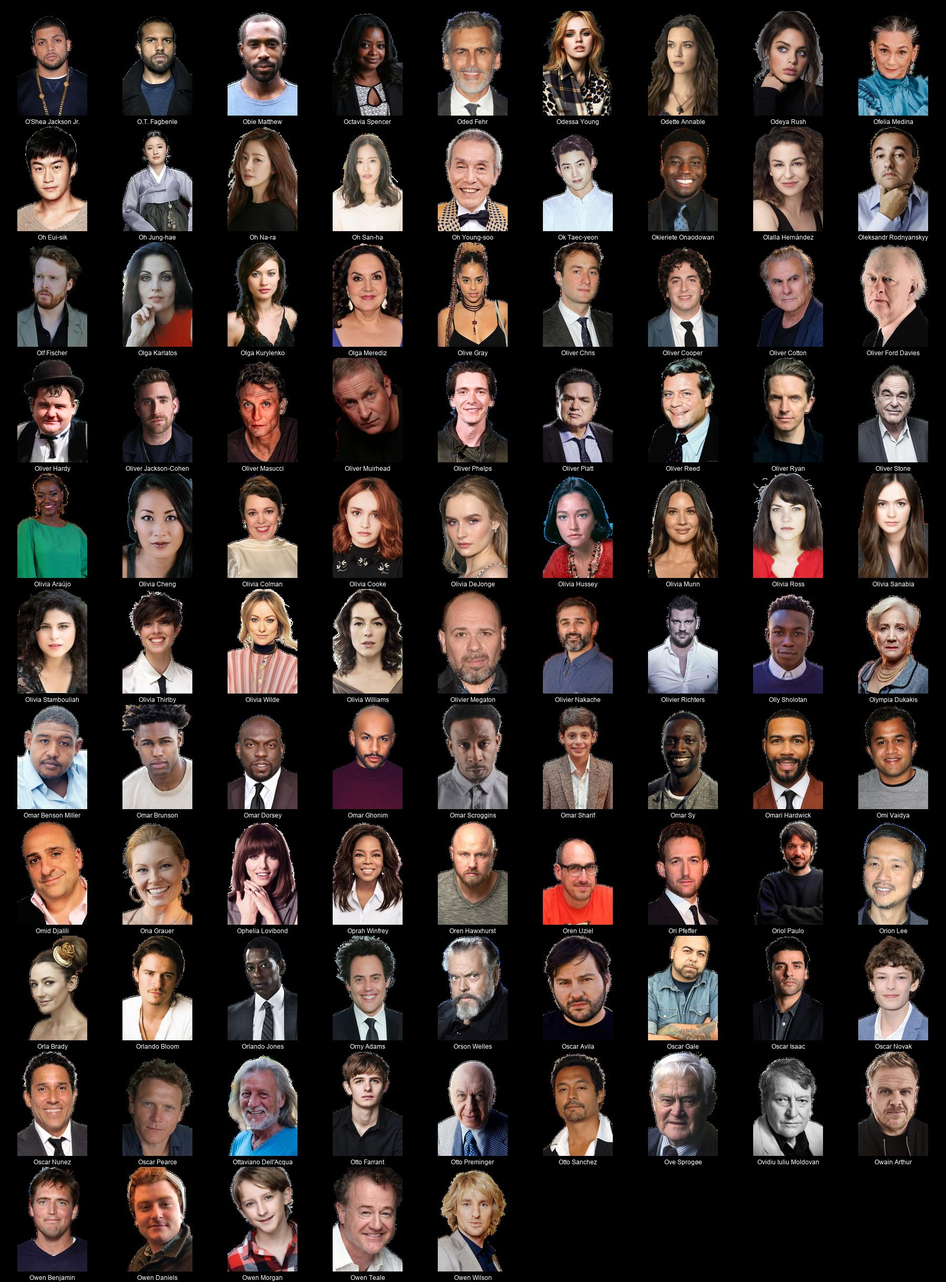
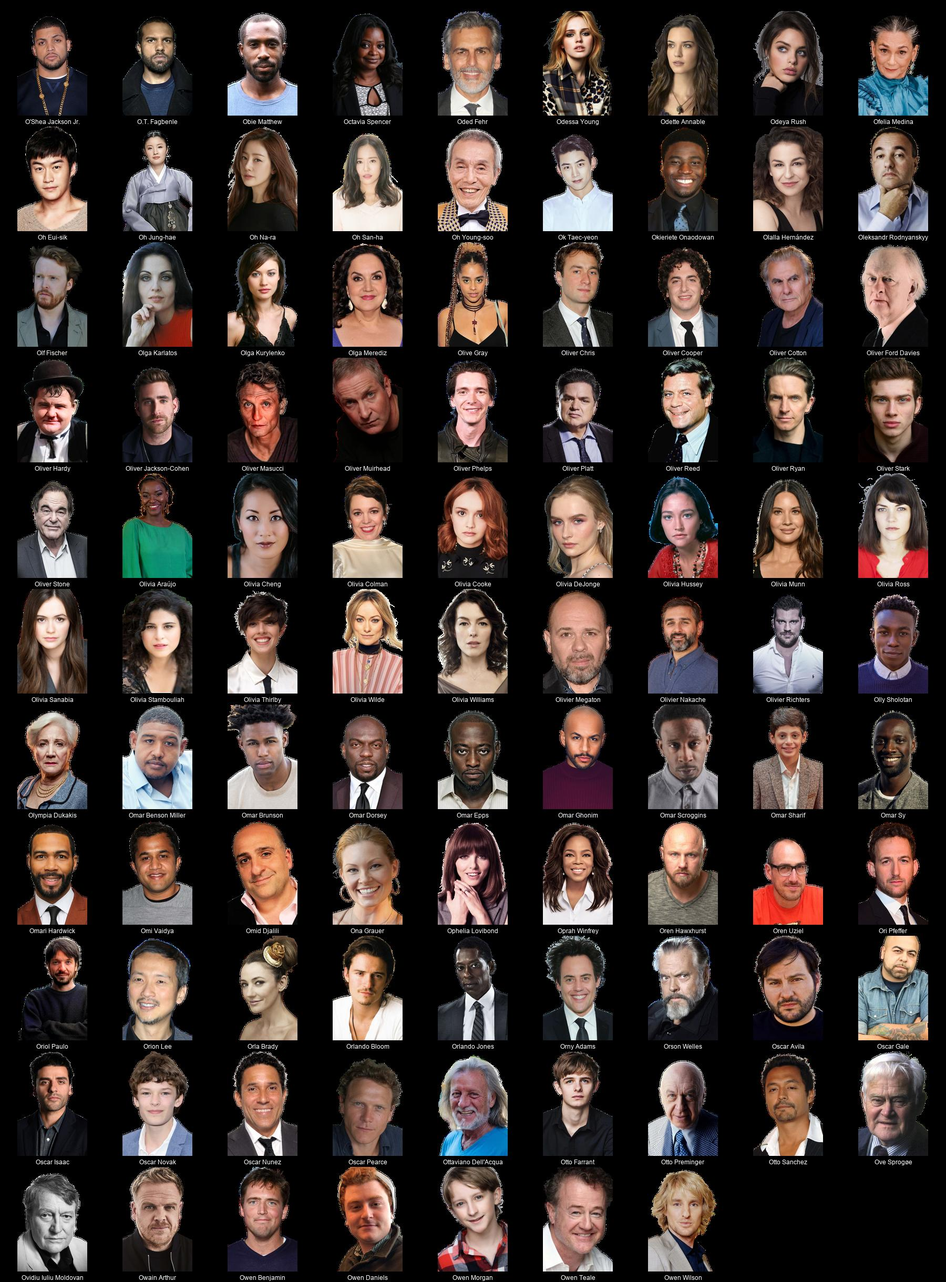
more peeps

diff --git a/README.md b/README.md
@@ -1,4 +1,4 @@
-# Kometa People Images - Transparent (transparent) (11044 Images)
+# Kometa People Images - Transparent (transparent) (11060 Images)
 
 <details><summary><a href="'">' (1 Images)</a></summary>
 
@@ -1464,7 +1464,7 @@
 * [Béla Tarr](https://raw.githubusercontent.com/Kometa-Team/People-Images-transparent/master/B/Images/B%C3%A9la%20Tarr.png)
 * [Bérénice Bejo](https://raw.githubusercontent.com/Kometa-Team/People-Images-transparent/master/B/Images/B%C3%A9r%C3%A9nice%20Bejo.png)
 </details>
-<details><summary><a href="C">C (707 Images)</a></summary>
+<details><summary><a href="C">C (708 Images)</a></summary>
 
 * [C. Robert Cargill](https://raw.githubusercontent.com/Kometa-Team/People-Images-transparent/master/C/Images/C.%20Robert%20Cargill.png)
 * [C. S. Forester](https://raw.githubusercontent.com/Kometa-Team/People-Images-transparent/master/C/Images/C.%20S.%20Forester.png)
@@ -1828,6 +1828,7 @@
 * [Chris Messina](https://raw.githubusercontent.com/Kometa-Team/People-Images-transparent/master/C/Images/Chris%20Messina.png)
 * [Chris Miller](https://raw.githubusercontent.com/Kometa-Team/People-Images-transparent/master/C/Images/Chris%20Miller.png)
 * [Chris Morgan](https://raw.githubusercontent.com/Kometa-Team/People-Images-transparent/master/C/Images/Chris%20Morgan.png)
+* [Chris Morris](https://raw.githubusercontent.com/Kometa-Team/People-Images-transparent/master/C/Images/Chris%20Morris.png)
 * [Chris Mulkey](https://raw.githubusercontent.com/Kometa-Team/People-Images-transparent/master/C/Images/Chris%20Mulkey.png)
 * [Chris Noth](https://raw.githubusercontent.com/Kometa-Team/People-Images-transparent/master/C/Images/Chris%20Noth.png)
 * [Chris O'Donnell](https://raw.githubusercontent.com/Kometa-Team/People-Images-transparent/master/C/Images/Chris%20O%27Donnell.png)
@@ -3486,7 +3487,7 @@
 * [Frédéric North](https://raw.githubusercontent.com/Kometa-Team/People-Images-transparent/master/F/Images/Fr%C3%A9d%C3%A9ric%20North.png)
 * [Fumihiko Tachiki](https://raw.githubusercontent.com/Kometa-Team/People-Images-transparent/master/F/Images/Fumihiko%20Tachiki.png)
 </details>
-<details><summary><a href="G">G (378 Images)</a></summary>
+<details><summary><a href="G">G (379 Images)</a></summary>
 
 * [G-Eazy](https://raw.githubusercontent.com/Kometa-Team/People-Images-transparent/master/G/Images/G-Eazy.png)
 * [G. D. Spradlin](https://raw.githubusercontent.com/Kometa-Team/People-Images-transparent/master/G/Images/G.%20D.%20Spradlin.png)
@@ -3786,6 +3787,7 @@
 * [Graham Greene](https://raw.githubusercontent.com/Kometa-Team/People-Images-transparent/master/G/Images/Graham%20Greene.png)
 * [Graham King](https://raw.githubusercontent.com/Kometa-Team/People-Images-transparent/master/G/Images/Graham%20King.png)
 * [Graham McTavish](https://raw.githubusercontent.com/Kometa-Team/People-Images-transparent/master/G/Images/Graham%20McTavish.png)
+* [Graham Norton](https://raw.githubusercontent.com/Kometa-Team/People-Images-transparent/master/G/Images/Graham%20Norton.png)
 * [Graham Phillips](https://raw.githubusercontent.com/Kometa-Team/People-Images-transparent/master/G/Images/Graham%20Phillips.png)
 * [Graham Turner](https://raw.githubusercontent.com/Kometa-Team/People-Images-transparent/master/G/Images/Graham%20Turner.png)
 * [Graham Walters](https://raw.githubusercontent.com/Kometa-Team/People-Images-transparent/master/G/Images/Graham%20Walters.png)
@@ -4294,7 +4296,7 @@
 * [Izaac Wang](https://raw.githubusercontent.com/Kometa-Team/People-Images-transparent/master/I/Images/Izaac%20Wang.png)
 * [Izabella Scorupco](https://raw.githubusercontent.com/Kometa-Team/People-Images-transparent/master/I/Images/Izabella%20Scorupco.png)
 </details>
-<details><summary><a href="J">J (1356 Images)</a></summary>
+<details><summary><a href="J">J (1361 Images)</a></summary>
 
 * [J'Dvonte](https://raw.githubusercontent.com/Kometa-Team/People-Images-transparent/master/J/Images/J%27Dvonte.png)
 * [J. A. Bayona](https://raw.githubusercontent.com/Kometa-Team/People-Images-transparent/master/J/Images/J.%20A.%20Bayona.png)
@@ -5114,6 +5116,7 @@
 * [John Ashton Thomas](https://raw.githubusercontent.com/Kometa-Team/People-Images-transparent/master/J/Images/John%20Ashton%20Thomas.png)
 * [John Ashton](https://raw.githubusercontent.com/Kometa-Team/People-Images-transparent/master/J/Images/John%20Ashton.png)
 * [John August](https://raw.githubusercontent.com/Kometa-Team/People-Images-transparent/master/J/Images/John%20August.png)
+* [John B. 'Sparko' Sparkes](https://raw.githubusercontent.com/Kometa-Team/People-Images-transparent/master/J/Images/John%20B.%20%27Sparko%27%20Sparkes.png)
 * [John Badham](https://raw.githubusercontent.com/Kometa-Team/People-Images-transparent/master/J/Images/John%20Badham.png)
 * [John Barron](https://raw.githubusercontent.com/Kometa-Team/People-Images-transparent/master/J/Images/John%20Barron.png)
 * [John Barrowman](https://raw.githubusercontent.com/Kometa-Team/People-Images-transparent/master/J/Images/John%20Barrowman.png)
@@ -5267,6 +5270,9 @@
 * [John Simm](https://raw.githubusercontent.com/Kometa-Team/People-Images-transparent/master/J/Images/John%20Simm.png)
 * [John Singleton](https://raw.githubusercontent.com/Kometa-Team/People-Images-transparent/master/J/Images/John%20Singleton.png)
 * [John Slattery](https://raw.githubusercontent.com/Kometa-Team/People-Images-transparent/master/J/Images/John%20Slattery.png)
+* [John Sparke](https://raw.githubusercontent.com/Kometa-Team/People-Images-transparent/master/J/Images/John%20Sparke.png)
+* [John Sparkes](https://raw.githubusercontent.com/Kometa-Team/People-Images-transparent/master/J/Images/John%20Sparkes.png)
+* [John Sparks](https://raw.githubusercontent.com/Kometa-Team/People-Images-transparent/master/J/Images/John%20Sparks.png)
 * [John Stamos](https://raw.githubusercontent.com/Kometa-Team/People-Images-transparent/master/J/Images/John%20Stamos.png)
 * [John Stephenson](https://raw.githubusercontent.com/Kometa-Team/People-Images-transparent/master/J/Images/John%20Stephenson.png)
 * [John Stocker](https://raw.githubusercontent.com/Kometa-Team/People-Images-transparent/master/J/Images/John%20Stocker.png)
@@ -5288,6 +5294,7 @@
 * [John Witherspoon](https://raw.githubusercontent.com/Kometa-Team/People-Images-transparent/master/J/Images/John%20Witherspoon.png)
 * [John Wolfe](https://raw.githubusercontent.com/Kometa-Team/People-Images-transparent/master/J/Images/John%20Wolfe.png)
 * [John Woo](https://raw.githubusercontent.com/Kometa-Team/People-Images-transparent/master/J/Images/John%20Woo.png)
+* [John Woodvine](https://raw.githubusercontent.com/Kometa-Team/People-Images-transparent/master/J/Images/John%20Woodvine.png)
 * [John Wyman](https://raw.githubusercontent.com/Kometa-Team/People-Images-transparent/master/J/Images/John%20Wyman.png)
 * [John le Carré](https://raw.githubusercontent.com/Kometa-Team/People-Images-transparent/master/J/Images/John%20le%20Carr%C3%A9.png)
 * [Johnathan Rice](https://raw.githubusercontent.com/Kometa-Team/People-Images-transparent/master/J/Images/Johnathan%20Rice.png)
@@ -6685,7 +6692,7 @@
 * [Léa Seydoux](https://raw.githubusercontent.com/Kometa-Team/People-Images-transparent/master/L/Images/L%C3%A9a%20Seydoux.png)
 * [Lúcio Andrey](https://raw.githubusercontent.com/Kometa-Team/People-Images-transparent/master/L/Images/L%C3%BAcio%20Andrey.png)
 </details>
-<details><summary><a href="M">M (1038 Images)</a></summary>
+<details><summary><a href="M">M (1040 Images)</a></summary>
 
 * [M'laah Kaur Singh](https://raw.githubusercontent.com/Kometa-Team/People-Images-transparent/master/M/Images/M%27laah%20Kaur%20Singh.png)
 * [M. Emmet Walsh](https://raw.githubusercontent.com/Kometa-Team/People-Images-transparent/master/M/Images/M.%20Emmet%20Walsh.png)
@@ -6847,6 +6854,7 @@
 * [Margaret Lacey](https://raw.githubusercontent.com/Kometa-Team/People-Images-transparent/master/M/Images/Margaret%20Lacey.png)
 * [Margaret Lee](https://raw.githubusercontent.com/Kometa-Team/People-Images-transparent/master/M/Images/Margaret%20Lee.png)
 * [Margaret Ménégoz](https://raw.githubusercontent.com/Kometa-Team/People-Images-transparent/master/M/Images/Margaret%20M%C3%A9n%C3%A9goz.png)
+* [Margaret Qualley](https://raw.githubusercontent.com/Kometa-Team/People-Images-transparent/master/M/Images/Margaret%20Qualley.png)
 * [Margit Evelyn Newton](https://raw.githubusercontent.com/Kometa-Team/People-Images-transparent/master/M/Images/Margit%20Evelyn%20Newton.png)
 * [Margo Martindale](https://raw.githubusercontent.com/Kometa-Team/People-Images-transparent/master/M/Images/Margo%20Martindale.png)
 * [Margo Moorer](https://raw.githubusercontent.com/Kometa-Team/People-Images-transparent/master/M/Images/Margo%20Moorer.png)
@@ -7592,6 +7600,7 @@
 * [Mike Troll](https://raw.githubusercontent.com/Kometa-Team/People-Images-transparent/master/M/Images/Mike%20Troll.png)
 * [Mike Vogel](https://raw.githubusercontent.com/Kometa-Team/People-Images-transparent/master/M/Images/Mike%20Vogel.png)
 * [Mike White](https://raw.githubusercontent.com/Kometa-Team/People-Images-transparent/master/M/Images/Mike%20White.png)
+* [Mikey Madison](https://raw.githubusercontent.com/Kometa-Team/People-Images-transparent/master/M/Images/Mikey%20Madison.png)
 * [Mikhail Gorevoy](https://raw.githubusercontent.com/Kometa-Team/People-Images-transparent/master/M/Images/Mikhail%20Gorevoy.png)
 * [Miki Esparbé](https://raw.githubusercontent.com/Kometa-Team/People-Images-transparent/master/M/Images/Miki%20Esparb%C3%A9.png)
 * [Miki Manojlović](https://raw.githubusercontent.com/Kometa-Team/People-Images-transparent/master/M/Images/Miki%20Manojlovi%C4%87.png)
@@ -8028,7 +8037,7 @@
 * [Nyasha Hatendi](https://raw.githubusercontent.com/Kometa-Team/People-Images-transparent/master/N/Images/Nyasha%20Hatendi.png)
 * [Nydia Rodriguez Terracina](https://raw.githubusercontent.com/Kometa-Team/People-Images-transparent/master/N/Images/Nydia%20Rodriguez%20Terracina.png)
 </details>
-<details><summary><a href="O">O (95 Images)</a></summary>
+<details><summary><a href="O">O (97 Images)</a></summary>
 
 * [O'Shea Jackson Jr.](https://raw.githubusercontent.com/Kometa-Team/People-Images-transparent/master/O/Images/O%27Shea%20Jackson%20Jr..png)
 * [O.T. Fagbenle](https://raw.githubusercontent.com/Kometa-Team/People-Images-transparent/master/O/Images/O.T.%20Fagbenle.png)
@@ -8065,6 +8074,7 @@
 * [Oliver Platt](https://raw.githubusercontent.com/Kometa-Team/People-Images-transparent/master/O/Images/Oliver%20Platt.png)
 * [Oliver Reed](https://raw.githubusercontent.com/Kometa-Team/People-Images-transparent/master/O/Images/Oliver%20Reed.png)
 * [Oliver Ryan](https://raw.githubusercontent.com/Kometa-Team/People-Images-transparent/master/O/Images/Oliver%20Ryan.png)
+* [Oliver Stark](https://raw.githubusercontent.com/Kometa-Team/People-Images-transparent/master/O/Images/Oliver%20Stark.png)
 * [Oliver Stone](https://raw.githubusercontent.com/Kometa-Team/People-Images-transparent/master/O/Images/Oliver%20Stone.png)
 * [Olivia Araújo](https://raw.githubusercontent.com/Kometa-Team/People-Images-transparent/master/O/Images/Olivia%20Ara%C3%BAjo.png)
 * [Olivia Cheng](https://raw.githubusercontent.com/Kometa-Team/People-Images-transparent/master/O/Images/Olivia%20Cheng.png)
@@ -8087,6 +8097,7 @@
 * [Omar Benson Miller](https://raw.githubusercontent.com/Kometa-Team/People-Images-transparent/master/O/Images/Omar%20Benson%20Miller.png)
 * [Omar Brunson](https://raw.githubusercontent.com/Kometa-Team/People-Images-transparent/master/O/Images/Omar%20Brunson.png)
 * [Omar Dorsey](https://raw.githubusercontent.com/Kometa-Team/People-Images-transparent/master/O/Images/Omar%20Dorsey.png)
+* [Omar Epps](https://raw.githubusercontent.com/Kometa-Team/People-Images-transparent/master/O/Images/Omar%20Epps.png)
 * [Omar Ghonim](https://raw.githubusercontent.com/Kometa-Team/People-Images-transparent/master/O/Images/Omar%20Ghonim.png)
 * [Omar Scroggins](https://raw.githubusercontent.com/Kometa-Team/People-Images-transparent/master/O/Images/Omar%20Scroggins.png)
 * [Omar Sharif](https://raw.githubusercontent.com/Kometa-Team/People-Images-transparent/master/O/Images/Omar%20Sharif.png)
@@ -8126,7 +8137,7 @@
 * [Owen Teale](https://raw.githubusercontent.com/Kometa-Team/People-Images-transparent/master/O/Images/Owen%20Teale.png)
 * [Owen Wilson](https://raw.githubusercontent.com/Kometa-Team/People-Images-transparent/master/O/Images/Owen%20Wilson.png)
 </details>
-<details><summary><a href="P">P (428 Images)</a></summary>
+<details><summary><a href="P">P (431 Images)</a></summary>
 
 * [P.H. Moriarty](https://raw.githubusercontent.com/Kometa-Team/People-Images-transparent/master/P/Images/P.H.%20Moriarty.png)
 * [P.J. Byrne](https://raw.githubusercontent.com/Kometa-Team/People-Images-transparent/master/P/Images/P.J.%20Byrne.png)
@@ -8199,6 +8210,8 @@
 * [Patricia Arquette](https://raw.githubusercontent.com/Kometa-Team/People-Images-transparent/master/P/Images/Patricia%20Arquette.png)
 * [Patricia Belcher](https://raw.githubusercontent.com/Kometa-Team/People-Images-transparent/master/P/Images/Patricia%20Belcher.png)
 * [Patricia Clarkson](https://raw.githubusercontent.com/Kometa-Team/People-Images-transparent/master/P/Images/Patricia%20Clarkson.png)
+* [Patricia Hodge](https://raw.githubusercontent.com/Kometa-Team/People-Images-transparent/master/P/Images/Patricia%20Hodge.png)
+* [Patricia Hodges](https://raw.githubusercontent.com/Kometa-Team/People-Images-transparent/master/P/Images/Patricia%20Hodges.png)
 * [Patricia López Arnaiz](https://raw.githubusercontent.com/Kometa-Team/People-Images-transparent/master/P/Images/Patricia%20L%C3%B3pez%20Arnaiz.png)
 * [Patricia Parker](https://raw.githubusercontent.com/Kometa-Team/People-Images-transparent/master/P/Images/Patricia%20Parker.png)
 * [Patricia Velásquez](https://raw.githubusercontent.com/Kometa-Team/People-Images-transparent/master/P/Images/Patricia%20Vel%C3%A1squez.png)
@@ -8256,6 +8269,7 @@
 * [Paul Dehn](https://raw.githubusercontent.com/Kometa-Team/People-Images-transparent/master/P/Images/Paul%20Dehn.png)
 * [Paul Dini](https://raw.githubusercontent.com/Kometa-Team/People-Images-transparent/master/P/Images/Paul%20Dini.png)
 * [Paul Dooley](https://raw.githubusercontent.com/Kometa-Team/People-Images-transparent/master/P/Images/Paul%20Dooley.png)
+* [Paul Eddington](https://raw.githubusercontent.com/Kometa-Team/People-Images-transparent/master/P/Images/Paul%20Eddington.png)
 * [Paul Eiding](https://raw.githubusercontent.com/Kometa-Team/People-Images-transparent/master/P/Images/Paul%20Eiding.png)
 * [Paul F. Tompkins](https://raw.githubusercontent.com/Kometa-Team/People-Images-transparent/master/P/Images/Paul%20F.%20Tompkins.png)
 * [Paul Feig](https://raw.githubusercontent.com/Kometa-Team/People-Images-transparent/master/P/Images/Paul%20Feig.png)
@@ -8568,7 +8582,7 @@
 * [Quinn Duffy](https://raw.githubusercontent.com/Kometa-Team/People-Images-transparent/master/Q/Images/Quinn%20Duffy.png)
 * [Quinton Jackson](https://raw.githubusercontent.com/Kometa-Team/People-Images-transparent/master/Q/Images/Quinton%20Jackson.png)
 </details>
-<details><summary><a href="R">R (699 Images)</a></summary>
+<details><summary><a href="R">R (700 Images)</a></summary>
 
 * [R. Lee Ermey](https://raw.githubusercontent.com/Kometa-Team/People-Images-transparent/master/R/Images/R.%20Lee%20Ermey.png)
 * [R. Madhavan](https://raw.githubusercontent.com/Kometa-Team/People-Images-transparent/master/R/Images/R.%20Madhavan.png)
@@ -8594,6 +8608,7 @@
 * [Rachel McAdams](https://raw.githubusercontent.com/Kometa-Team/People-Images-transparent/master/R/Images/Rachel%20McAdams.png)
 * [Rachel Nichols](https://raw.githubusercontent.com/Kometa-Team/People-Images-transparent/master/R/Images/Rachel%20Nichols.png)
 * [Rachel Rye](https://raw.githubusercontent.com/Kometa-Team/People-Images-transparent/master/R/Images/Rachel%20Rye.png)
+* [Rachel Sennott](https://raw.githubusercontent.com/Kometa-Team/People-Images-transparent/master/R/Images/Rachel%20Sennott.png)
 * [Rachel Skarsten](https://raw.githubusercontent.com/Kometa-Team/People-Images-transparent/master/R/Images/Rachel%20Skarsten.png)
 * [Rachel Weisz](https://raw.githubusercontent.com/Kometa-Team/People-Images-transparent/master/R/Images/Rachel%20Weisz.png)
 * [Rachelle Wood](https://raw.githubusercontent.com/Kometa-Team/People-Images-transparent/master/R/Images/Rachelle%20Wood.png)
@@ -9270,7 +9285,7 @@
 * [Ryusei Nakao](https://raw.githubusercontent.com/Kometa-Team/People-Images-transparent/master/R/Images/Ryusei%20Nakao.png)
 * [Ryusuke Hamaguchi](https://raw.githubusercontent.com/Kometa-Team/People-Images-transparent/master/R/Images/Ryusuke%20Hamaguchi.png)
 </details>
-<details><summary><a href="S">S (787 Images)</a></summary>
+<details><summary><a href="S">S (788 Images)</a></summary>
 
 * [S. S. Rajamouli](https://raw.githubusercontent.com/Kometa-Team/People-Images-transparent/master/S/Images/S.%20S.%20Rajamouli.png)
 * [Saagar Shaikh](https://raw.githubusercontent.com/Kometa-Team/People-Images-transparent/master/S/Images/Saagar%20Shaikh.png)
@@ -9773,6 +9788,7 @@
 * [Sofia Coppola](https://raw.githubusercontent.com/Kometa-Team/People-Images-transparent/master/S/Images/Sofia%20Coppola.png)
 * [Sofia Hublitz](https://raw.githubusercontent.com/Kometa-Team/People-Images-transparent/master/S/Images/Sofia%20Hublitz.png)
 * [Sofia Lesaffre](https://raw.githubusercontent.com/Kometa-Team/People-Images-transparent/master/S/Images/Sofia%20Lesaffre.png)
+* [Sofia Pernas](https://raw.githubusercontent.com/Kometa-Team/People-Images-transparent/master/S/Images/Sofia%20Pernas.png)
 * [Sofia Wylie](https://raw.githubusercontent.com/Kometa-Team/People-Images-transparent/master/S/Images/Sofia%20Wylie.png)
 * [Sofía Espinosa](https://raw.githubusercontent.com/Kometa-Team/People-Images-transparent/master/S/Images/Sof%C3%ADa%20Espinosa.png)
 * [Sofía Vergara](https://raw.githubusercontent.com/Kometa-Team/People-Images-transparent/master/S/Images/Sof%C3%ADa%20Vergara.png)

diff --git a/J/README.md b/J/README.md
@@ -1,4 +1,4 @@
-# Kometa People Images - Transparent (transparent) - J (1356 Images)
+# Kometa People Images - Transparent (transparent) - J (1361 Images)
 ![Grid](grid.jpg)
 
 * [J'Dvonte](https://raw.githubusercontent.com/Kometa-Team/People-Images-transparent/master/J/Images/J%27Dvonte.png)
@@ -819,6 +819,7 @@
 * [John Ashton Thomas](https://raw.githubusercontent.com/Kometa-Team/People-Images-transparent/master/J/Images/John%20Ashton%20Thomas.png)
 * [John Ashton](https://raw.githubusercontent.com/Kometa-Team/People-Images-transparent/master/J/Images/John%20Ashton.png)
 * [John August](https://raw.githubusercontent.com/Kometa-Team/People-Images-transparent/master/J/Images/John%20August.png)
+* [John B. 'Sparko' Sparkes](https://raw.githubusercontent.com/Kometa-Team/People-Images-transparent/master/J/Images/John%20B.%20%27Sparko%27%20Sparkes.png)
 * [John Badham](https://raw.githubusercontent.com/Kometa-Team/People-Images-transparent/master/J/Images/John%20Badham.png)
 * [John Barron](https://raw.githubusercontent.com/Kometa-Team/People-Images-transparent/master/J/Images/John%20Barron.png)
 * [John Barrowman](https://raw.githubusercontent.com/Kometa-Team/People-Images-transparent/master/J/Images/John%20Barrowman.png)
@@ -972,6 +973,9 @@
 * [John Simm](https://raw.githubusercontent.com/Kometa-Team/People-Images-transparent/master/J/Images/John%20Simm.png)
 * [John Singleton](https://raw.githubusercontent.com/Kometa-Team/People-Images-transparent/master/J/Images/John%20Singleton.png)
 * [John Slattery](https://raw.githubusercontent.com/Kometa-Team/People-Images-transparent/master/J/Images/John%20Slattery.png)
+* [John Sparke](https://raw.githubusercontent.com/Kometa-Team/People-Images-transparent/master/J/Images/John%20Sparke.png)
+* [John Sparkes](https://raw.githubusercontent.com/Kometa-Team/People-Images-transparent/master/J/Images/John%20Sparkes.png)
+* [John Sparks](https://raw.githubusercontent.com/Kometa-Team/People-Images-transparent/master/J/Images/John%20Sparks.png)
 * [John Stamos](https://raw.githubusercontent.com/Kometa-Team/People-Images-transparent/master/J/Images/John%20Stamos.png)
 * [John Stephenson](https://raw.githubusercontent.com/Kometa-Team/People-Images-transparent/master/J/Images/John%20Stephenson.png)
 * [John Stocker](https://raw.githubusercontent.com/Kometa-Team/People-Images-transparent/master/J/Images/John%20Stocker.png)
@@ -993,6 +997,7 @@
 * [John Witherspoon](https://raw.githubusercontent.com/Kometa-Team/People-Images-transparent/master/J/Images/John%20Witherspoon.png)
 * [John Wolfe](https://raw.githubusercontent.com/Kometa-Team/People-Images-transparent/master/J/Images/John%20Wolfe.png)
 * [John Woo](https://raw.githubusercontent.com/Kometa-Team/People-Images-transparent/master/J/Images/John%20Woo.png)
+* [John Woodvine](https://raw.githubusercontent.com/Kometa-Team/People-Images-transparent/master/J/Images/John%20Woodvine.png)
 * [John Wyman](https://raw.githubusercontent.com/Kometa-Team/People-Images-transparent/master/J/Images/John%20Wyman.png)
 * [John le Carré](https://raw.githubusercontent.com/Kometa-Team/People-Images-transparent/master/J/Images/John%20le%20Carr%C3%A9.png)
 * [Johnathan Rice](https://raw.githubusercontent.com/Kometa-Team/People-Images-transparent/master/J/Images/Johnathan%20Rice.png)

diff --git a/P/README.md b/P/README.md
@@ -1,4 +1,4 @@
-# Kometa People Images - Transparent (transparent) - P (428 Images)
+# Kometa People Images - Transparent (transparent) - P (431 Images)
 ![Grid](grid.jpg)
 
 * [P.H. Moriarty](https://raw.githubusercontent.com/Kometa-Team/People-Images-transparent/master/P/Images/P.H.%20Moriarty.png)
@@ -72,6 +72,8 @@
 * [Patricia Arquette](https://raw.githubusercontent.com/Kometa-Team/People-Images-transparent/master/P/Images/Patricia%20Arquette.png)
 * [Patricia Belcher](https://raw.githubusercontent.com/Kometa-Team/People-Images-transparent/master/P/Images/Patricia%20Belcher.png)
 * [Patricia Clarkson](https://raw.githubusercontent.com/Kometa-Team/People-Images-transparent/master/P/Images/Patricia%20Clarkson.png)
+* [Patricia Hodge](https://raw.githubusercontent.com/Kometa-Team/People-Images-transparent/master/P/Images/Patricia%20Hodge.png)
+* [Patricia Hodges](https://raw.githubusercontent.com/Kometa-Team/People-Images-transparent/master/P/Images/Patricia%20Hodges.png)
 * [Patricia López Arnaiz](https://raw.githubusercontent.com/Kometa-Team/People-Images-transparent/master/P/Images/Patricia%20L%C3%B3pez%20Arnaiz.png)
 * [Patricia Parker](https://raw.githubusercontent.com/Kometa-Team/People-Images-transparent/master/P/Images/Patricia%20Parker.png)
 * [Patricia Velásquez](https://raw.githubusercontent.com/Kometa-Team/People-Images-transparent/master/P/Images/Patricia%20Vel%C3%A1squez.png)
@@ -129,6 +131,7 @@
 * [Paul Dehn](https://raw.githubusercontent.com/Kometa-Team/People-Images-transparent/master/P/Images/Paul%20Dehn.png)
 * [Paul Dini](https://raw.githubusercontent.com/Kometa-Team/People-Images-transparent/master/P/Images/Paul%20Dini.png)
 * [Paul Dooley](https://raw.githubusercontent.com/Kometa-Team/People-Images-transparent/master/P/Images/Paul%20Dooley.png)
+* [Paul Eddington](https://raw.githubusercontent.com/Kometa-Team/People-Images-transparent/master/P/Images/Paul%20Eddington.png)
 * [Paul Eiding](https://raw.githubusercontent.com/Kometa-Team/People-Images-transparent/master/P/Images/Paul%20Eiding.png)
 * [Paul F. Tompkins](https://raw.githubusercontent.com/Kometa-Team/People-Images-transparent/master/P/Images/Paul%20F.%20Tompkins.png)
 * [Paul Feig](https://raw.githubusercontent.com/Kometa-Team/People-Images-transparent/master/P/Images/Paul%20Feig.png)

diff --git a/M/README.md b/M/README.md
@@ -1,4 +1,4 @@
-# Kometa People Images - Transparent (transparent) - M (1038 Images)
+# Kometa People Images - Transparent (transparent) - M (1040 Images)
 ![Grid](grid.jpg)
 
 * [M'laah Kaur Singh](https://raw.githubusercontent.com/Kometa-Team/People-Images-transparent/master/M/Images/M%27laah%20Kaur%20Singh.png)
@@ -161,6 +161,7 @@
 * [Margaret Lacey](https://raw.githubusercontent.com/Kometa-Team/People-Images-transparent/master/M/Images/Margaret%20Lacey.png)
 * [Margaret Lee](https://raw.githubusercontent.com/Kometa-Team/People-Images-transparent/master/M/Images/Margaret%20Lee.png)
 * [Margaret Ménégoz](https://raw.githubusercontent.com/Kometa-Team/People-Images-transparent/master/M/Images/Margaret%20M%C3%A9n%C3%A9goz.png)
+* [Margaret Qualley](https://raw.githubusercontent.com/Kometa-Team/People-Images-transparent/master/M/Images/Margaret%20Qualley.png)
 * [Margit Evelyn Newton](https://raw.githubusercontent.com/Kometa-Team/People-Images-transparent/master/M/Images/Margit%20Evelyn%20Newton.png)
 * [Margo Martindale](https://raw.githubusercontent.com/Kometa-Team/People-Images-transparent/master/M/Images/Margo%20Martindale.png)
 * [Margo Moorer](https://raw.githubusercontent.com/Kometa-Team/People-Images-transparent/master/M/Images/Margo%20Moorer.png)
@@ -906,6 +907,7 @@
 * [Mike Troll](https://raw.githubusercontent.com/Kometa-Team/People-Images-transparent/master/M/Images/Mike%20Troll.png)
 * [Mike Vogel](https://raw.githubusercontent.com/Kometa-Team/People-Images-transparent/master/M/Images/Mike%20Vogel.png)
 * [Mike White](https://raw.githubusercontent.com/Kometa-Team/People-Images-transparent/master/M/Images/Mike%20White.png)
+* [Mikey Madison](https://raw.githubusercontent.com/Kometa-Team/People-Images-transparent/master/M/Images/Mikey%20Madison.png)
 * [Mikhail Gorevoy](https://raw.githubusercontent.com/Kometa-Team/People-Images-transparent/master/M/Images/Mikhail%20Gorevoy.png)
 * [Miki Esparbé](https://raw.githubusercontent.com/Kometa-Team/People-Images-transparent/master/M/Images/Miki%20Esparb%C3%A9.png)
 * [Miki Manojlović](https://raw.githubusercontent.com/Kometa-Team/People-Images-transparent/master/M/Images/Miki%20Manojlovi%C4%87.png)

diff --git a/O/README.md b/O/README.md
@@ -1,4 +1,4 @@
-# Kometa People Images - Transparent (transparent) - O (95 Images)
+# Kometa People Images - Transparent (transparent) - O (97 Images)
 ![Grid](grid.jpg)
 
 * [O'Shea Jackson Jr.](https://raw.githubusercontent.com/Kometa-Team/People-Images-transparent/master/O/Images/O%27Shea%20Jackson%20Jr..png)
@@ -36,6 +36,7 @@
 * [Oliver Platt](https://raw.githubusercontent.com/Kometa-Team/People-Images-transparent/master/O/Images/Oliver%20Platt.png)
 * [Oliver Reed](https://raw.githubusercontent.com/Kometa-Team/People-Images-transparent/master/O/Images/Oliver%20Reed.png)
 * [Oliver Ryan](https://raw.githubusercontent.com/Kometa-Team/People-Images-transparent/master/O/Images/Oliver%20Ryan.png)
+* [Oliver Stark](https://raw.githubusercontent.com/Kometa-Team/People-Images-transparent/master/O/Images/Oliver%20Stark.png)
 * [Oliver Stone](https://raw.githubusercontent.com/Kometa-Team/People-Images-transparent/master/O/Images/Oliver%20Stone.png)
 * [Olivia Araújo](https://raw.githubusercontent.com/Kometa-Team/People-Images-transparent/master/O/Images/Olivia%20Ara%C3%BAjo.png)
 * [Olivia Cheng](https://raw.githubusercontent.com/Kometa-Team/People-Images-transparent/master/O/Images/Olivia%20Cheng.png)
@@ -58,6 +59,7 @@
 * [Omar Benson Miller](https://raw.githubusercontent.com/Kometa-Team/People-Images-transparent/master/O/Images/Omar%20Benson%20Miller.png)
 * [Omar Brunson](https://raw.githubusercontent.com/Kometa-Team/People-Images-transparent/master/O/Images/Omar%20Brunson.png)
 * [Omar Dorsey](https://raw.githubusercontent.com/Kometa-Team/People-Images-transparent/master/O/Images/Omar%20Dorsey.png)
+* [Omar Epps](https://raw.githubusercontent.com/Kometa-Team/People-Images-transparent/master/O/Images/Omar%20Epps.png)
 * [Omar Ghonim](https://raw.githubusercontent.com/Kometa-Team/People-Images-transparent/master/O/Images/Omar%20Ghonim.png)
 * [Omar Scroggins](https://raw.githubusercontent.com/Kometa-Team/People-Images-transparent/master/O/Images/Omar%20Scroggins.png)
 * [Omar Sharif](https://raw.githubusercontent.com/Kometa-Team/People-Images-transparent/master/O/Images/Omar%20Sharif.png)

diff --git a/S/README.md b/S/README.md
@@ -1,4 +1,4 @@
-# Kometa People Images - Transparent (transparent) - S (787 Images)
+# Kometa People Images - Transparent (transparent) - S (788 Images)
 ![Grid](grid.jpg)
 
 * [S. S. Rajamouli](https://raw.githubusercontent.com/Kometa-Team/People-Images-transparent/master/S/Images/S.%20S.%20Rajamouli.png)
@@ -502,6 +502,7 @@
 * [Sofia Coppola](https://raw.githubusercontent.com/Kometa-Team/People-Images-transparent/master/S/Images/Sofia%20Coppola.png)
 * [Sofia Hublitz](https://raw.githubusercontent.com/Kometa-Team/People-Images-transparent/master/S/Images/Sofia%20Hublitz.png)
 * [Sofia Lesaffre](https://raw.githubusercontent.com/Kometa-Team/People-Images-transparent/master/S/Images/Sofia%20Lesaffre.png)
+* [Sofia Pernas](https://raw.githubusercontent.com/Kometa-Team/People-Images-transparent/master/S/Images/Sofia%20Pernas.png)
 * [Sofia Wylie](https://raw.githubusercontent.com/Kometa-Team/People-Images-transparent/master/S/Images/Sofia%20Wylie.png)
 * [Sofía Espinosa](https://raw.githubusercontent.com/Kometa-Team/People-Images-transparent/master/S/Images/Sof%C3%ADa%20Espinosa.png)
 * [Sofía Vergara](https://raw.githubusercontent.com/Kometa-Team/People-Images-transparent/master/S/Images/Sof%C3%ADa%20Vergara.png)

diff --git a/C/README.md b/C/README.md
@@ -1,4 +1,4 @@
-# Kometa People Images - Transparent (transparent) - C (707 Images)
+# Kometa People Images - Transparent (transparent) - C (708 Images)
 ![Grid](grid.jpg)
 
 * [C. Robert Cargill](https://raw.githubusercontent.com/Kometa-Team/People-Images-transparent/master/C/Images/C.%20Robert%20Cargill.png)
@@ -363,6 +363,7 @@
 * [Chris Messina](https://raw.githubusercontent.com/Kometa-Team/People-Images-transparent/master/C/Images/Chris%20Messina.png)
 * [Chris Miller](https://raw.githubusercontent.com/Kometa-Team/People-Images-transparent/master/C/Images/Chris%20Miller.png)
 * [Chris Morgan](https://raw.githubusercontent.com/Kometa-Team/People-Images-transparent/master/C/Images/Chris%20Morgan.png)
+* [Chris Morris](https://raw.githubusercontent.com/Kometa-Team/People-Images-transparent/master/C/Images/Chris%20Morris.png)
 * [Chris Mulkey](https://raw.githubusercontent.com/Kometa-Team/People-Images-transparent/master/C/Images/Chris%20Mulkey.png)
 * [Chris Noth](https://raw.githubusercontent.com/Kometa-Team/People-Images-transparent/master/C/Images/Chris%20Noth.png)
 * [Chris O'Donnell](https://raw.githubusercontent.com/Kometa-Team/People-Images-transparent/master/C/Images/Chris%20O%27Donnell.png)

diff --git a/R/README.md b/R/README.md
@@ -1,4 +1,4 @@
-# Kometa People Images - Transparent (transparent) - R (699 Images)
+# Kometa People Images - Transparent (transparent) - R (700 Images)
 ![Grid](grid.jpg)
 
 * [R. Lee Ermey](https://raw.githubusercontent.com/Kometa-Team/People-Images-transparent/master/R/Images/R.%20Lee%20Ermey.png)
@@ -25,6 +25,7 @@
 * [Rachel McAdams](https://raw.githubusercontent.com/Kometa-Team/People-Images-transparent/master/R/Images/Rachel%20McAdams.png)
 * [Rachel Nichols](https://raw.githubusercontent.com/Kometa-Team/People-Images-transparent/master/R/Images/Rachel%20Nichols.png)
 * [Rachel Rye](https://raw.githubusercontent.com/Kometa-Team/People-Images-transparent/master/R/Images/Rachel%20Rye.png)
+* [Rachel Sennott](https://raw.githubusercontent.com/Kometa-Team/People-Images-transparent/master/R/Images/Rachel%20Sennott.png)
 * [Rachel Skarsten](https://raw.githubusercontent.com/Kometa-Team/People-Images-transparent/master/R/Images/Rachel%20Skarsten.png)
 * [Rachel Weisz](https://raw.githubusercontent.com/Kometa-Team/People-Images-transparent/master/R/Images/Rachel%20Weisz.png)
 * [Rachelle Wood](https://raw.githubusercontent.com/Kometa-Team/People-Images-transparent/master/R/Images/Rachelle%20Wood.png)

diff --git a/G/README.md b/G/README.md
@@ -1,4 +1,4 @@
-# Kometa People Images - Transparent (transparent) - G (378 Images)
+# Kometa People Images - Transparent (transparent) - G (379 Images)
 ![Grid](grid.jpg)
 
 * [G-Eazy](https://raw.githubusercontent.com/Kometa-Team/People-Images-transparent/master/G/Images/G-Eazy.png)
@@ -299,6 +299,7 @@
 * [Graham Greene](https://raw.githubusercontent.com/Kometa-Team/People-Images-transparent/master/G/Images/Graham%20Greene.png)
 * [Graham King](https://raw.githubusercontent.com/Kometa-Team/People-Images-transparent/master/G/Images/Graham%20King.png)
 * [Graham McTavish](https://raw.githubusercontent.com/Kometa-Team/People-Images-transparent/master/G/Images/Graham%20McTavish.png)
+* [Graham Norton](https://raw.githubusercontent.com/Kometa-Team/People-Images-transparent/master/G/Images/Graham%20Norton.png)
 * [Graham Phillips](https://raw.githubusercontent.com/Kometa-Team/People-Images-transparent/master/G/Images/Graham%20Phillips.png)
 * [Graham Turner](https://raw.githubusercontent.com/Kometa-Team/People-Images-transparent/master/G/Images/Graham%20Turner.png)
 * [Graham Walters](https://raw.githubusercontent.com/Kometa-Team/People-Images-transparent/master/G/Images/Graham%20Walters.png)
